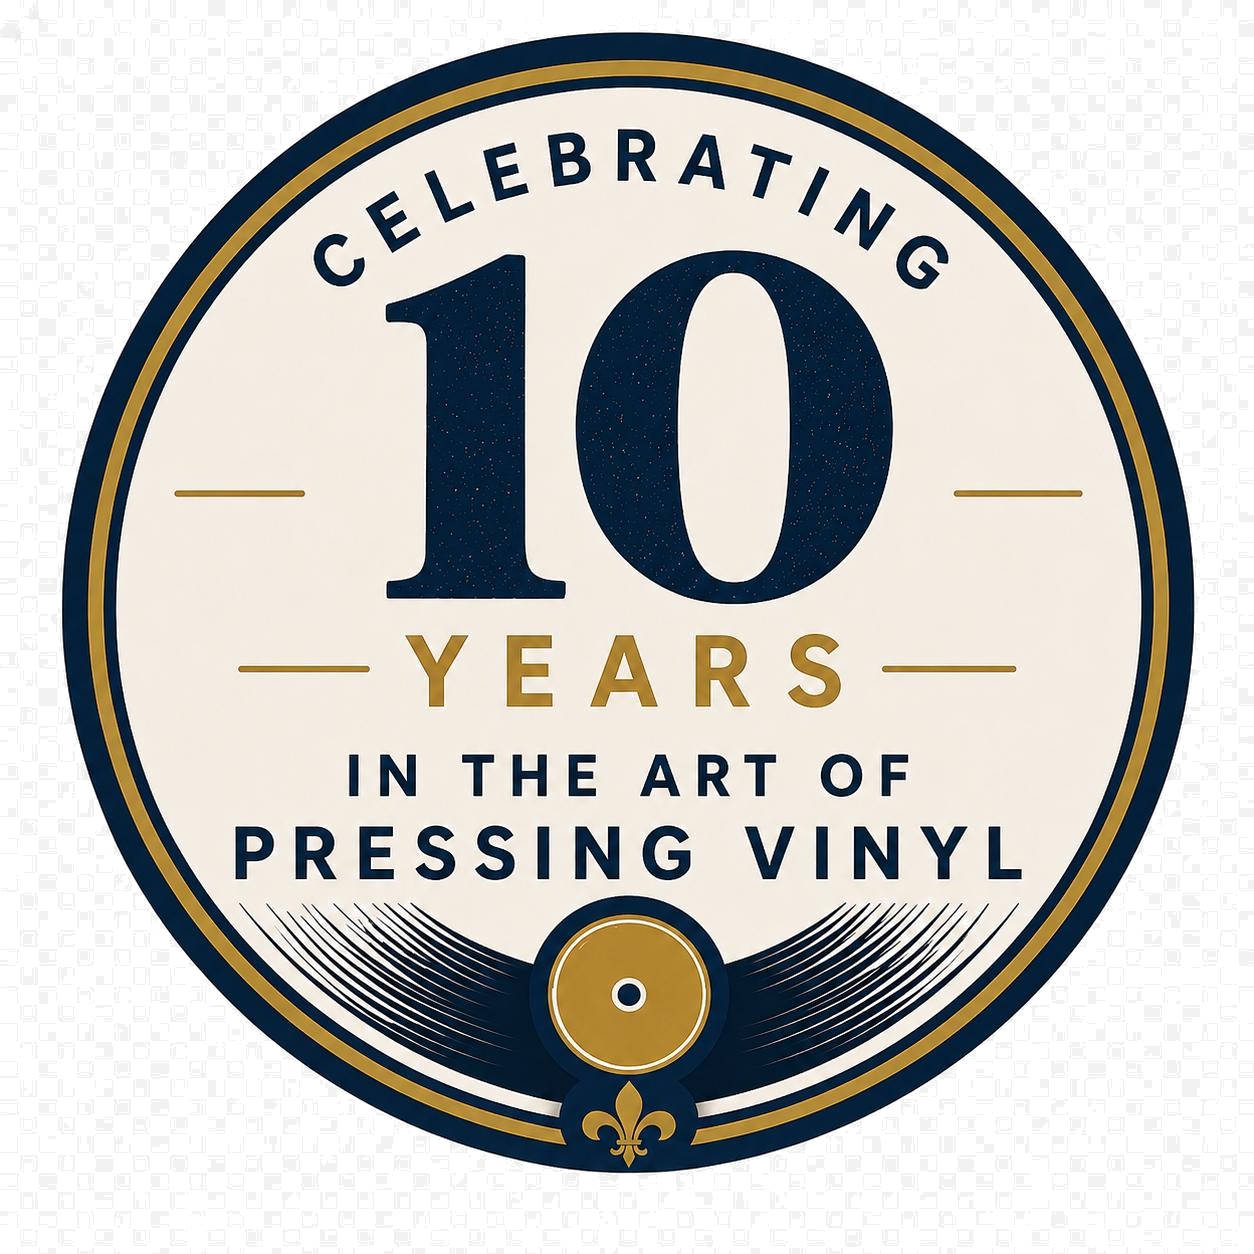
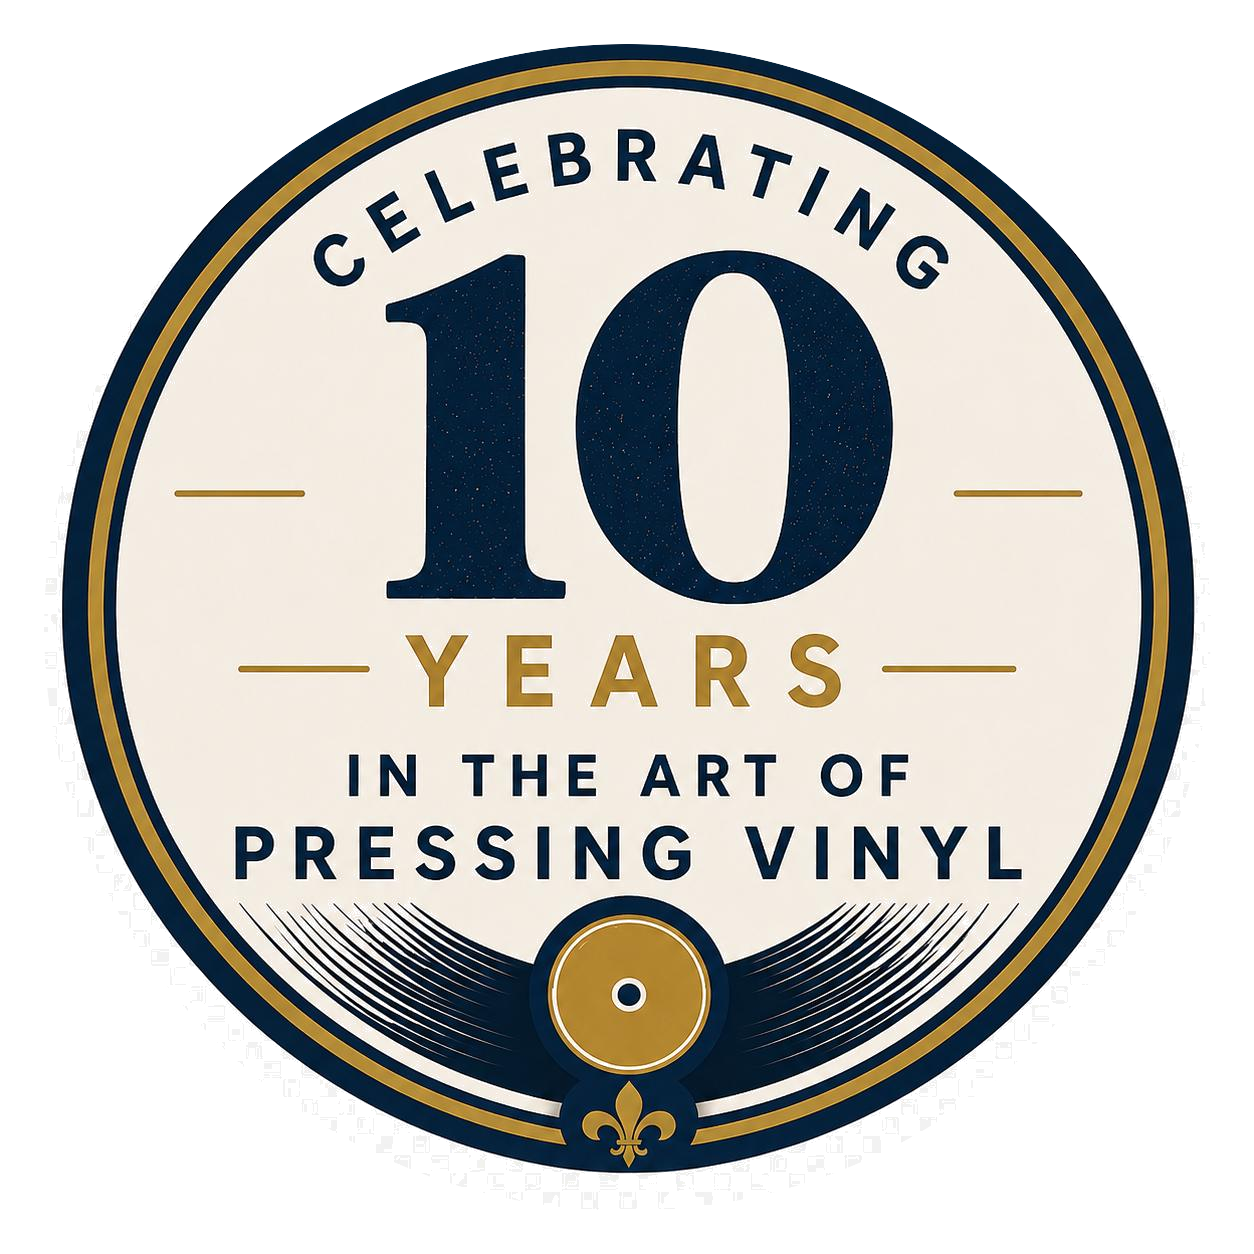
fix: 10-year badge — remove stray artifact pixels, add clip-path circle CSS

diff --git a/components/hero.tsx b/components/hero.tsx
@@ -35,7 +35,7 @@ export function Hero() {
           alt="Celebrating 10 Years in the Art of Pressing Vinyl"
           width={400}
           height={400}
-          className="w-[315px] xl:w-[370px] h-auto"
+          className="w-[315px] xl:w-[370px] h-auto [clip-path:circle(50%)] block"
         />
       </div>
 